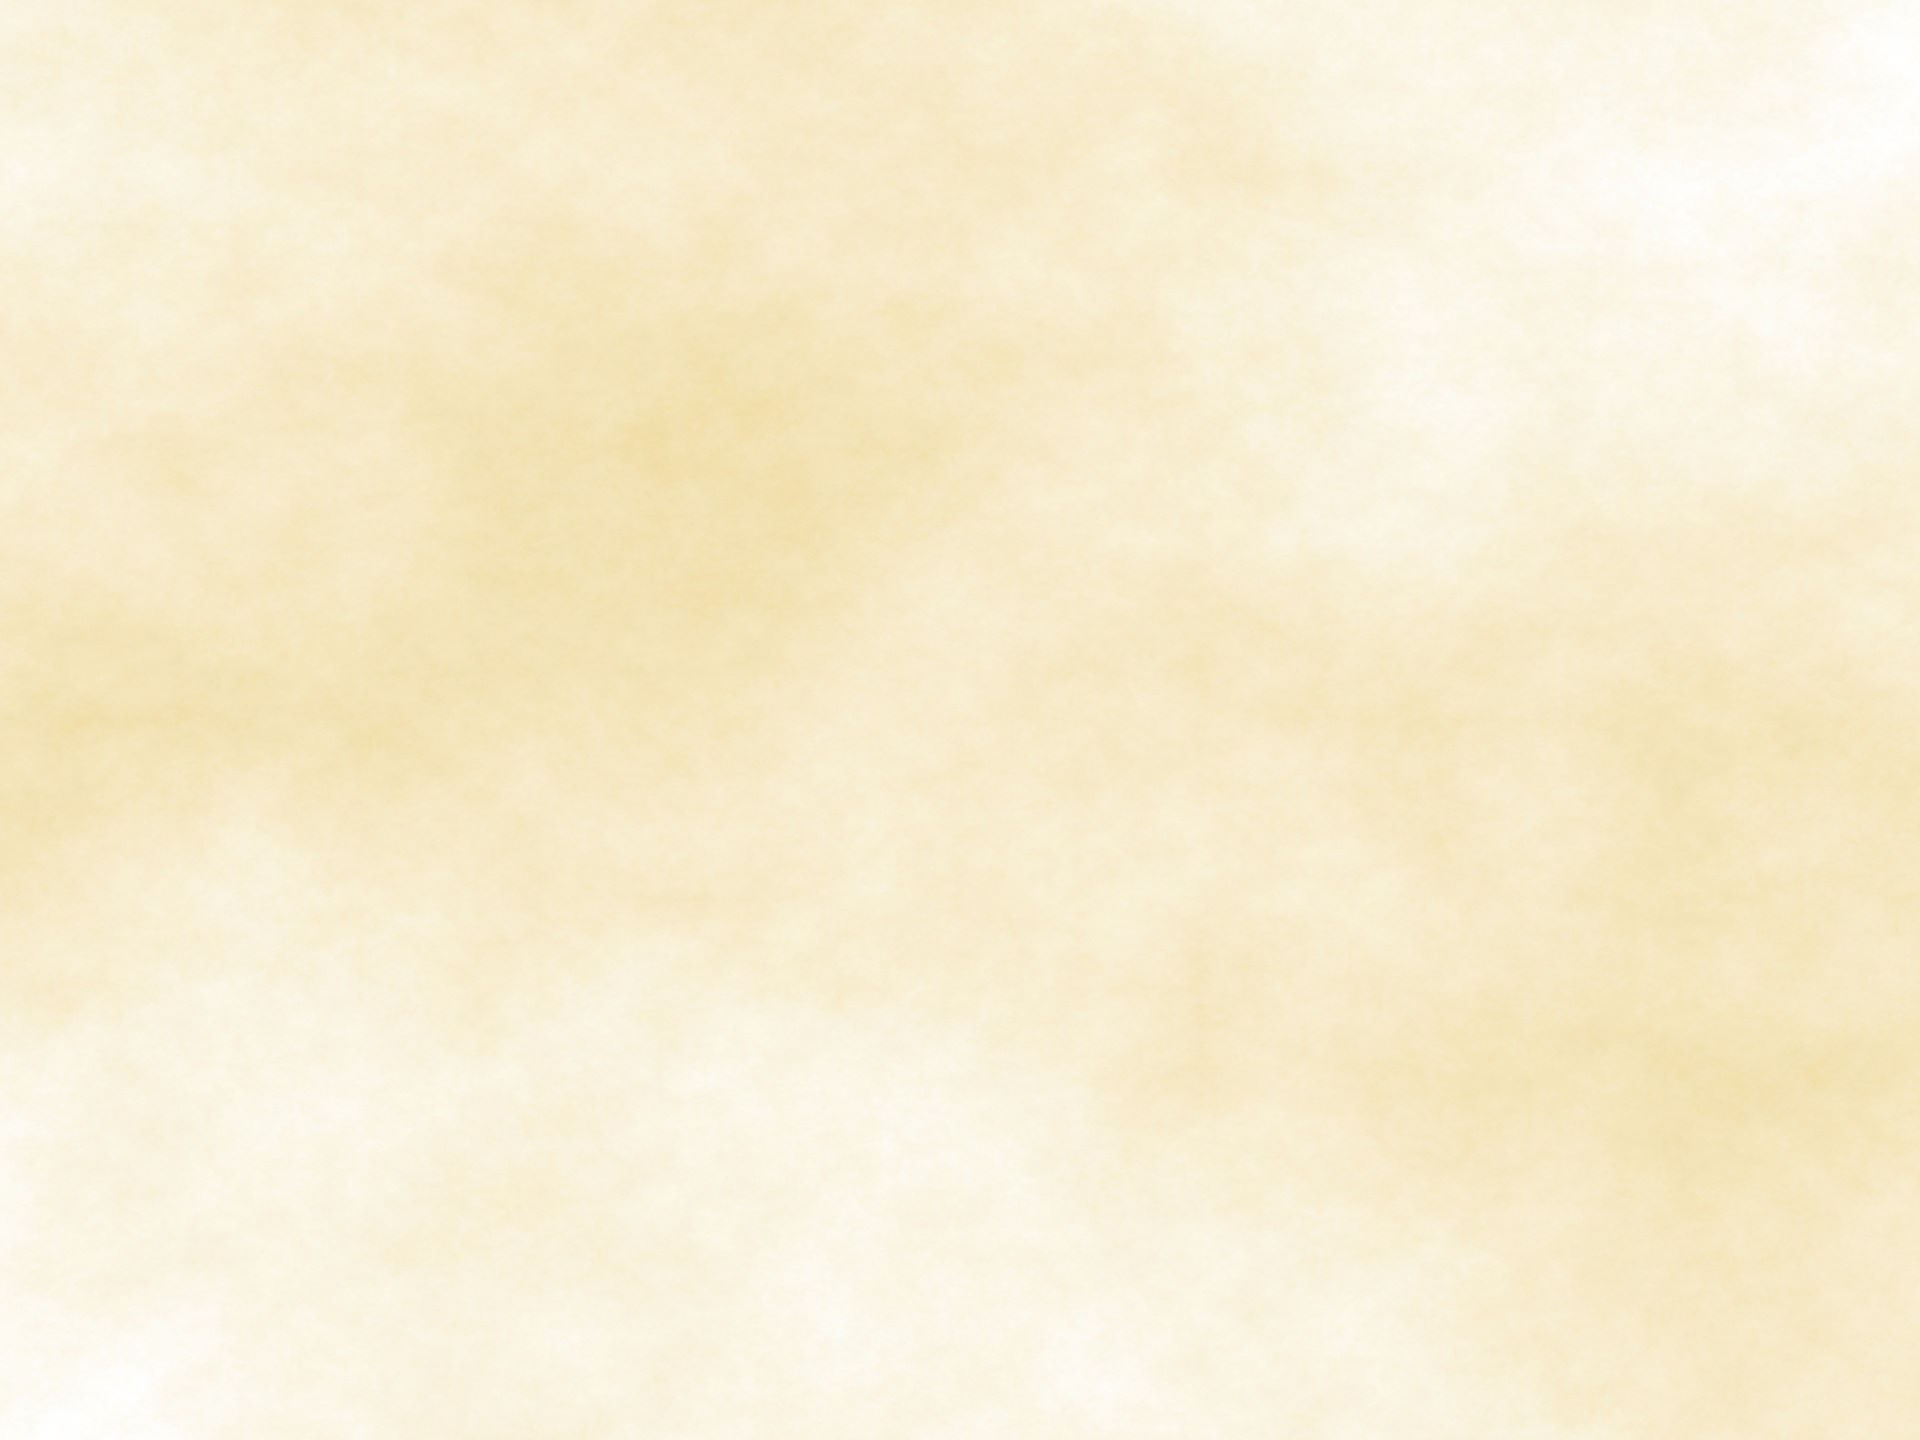
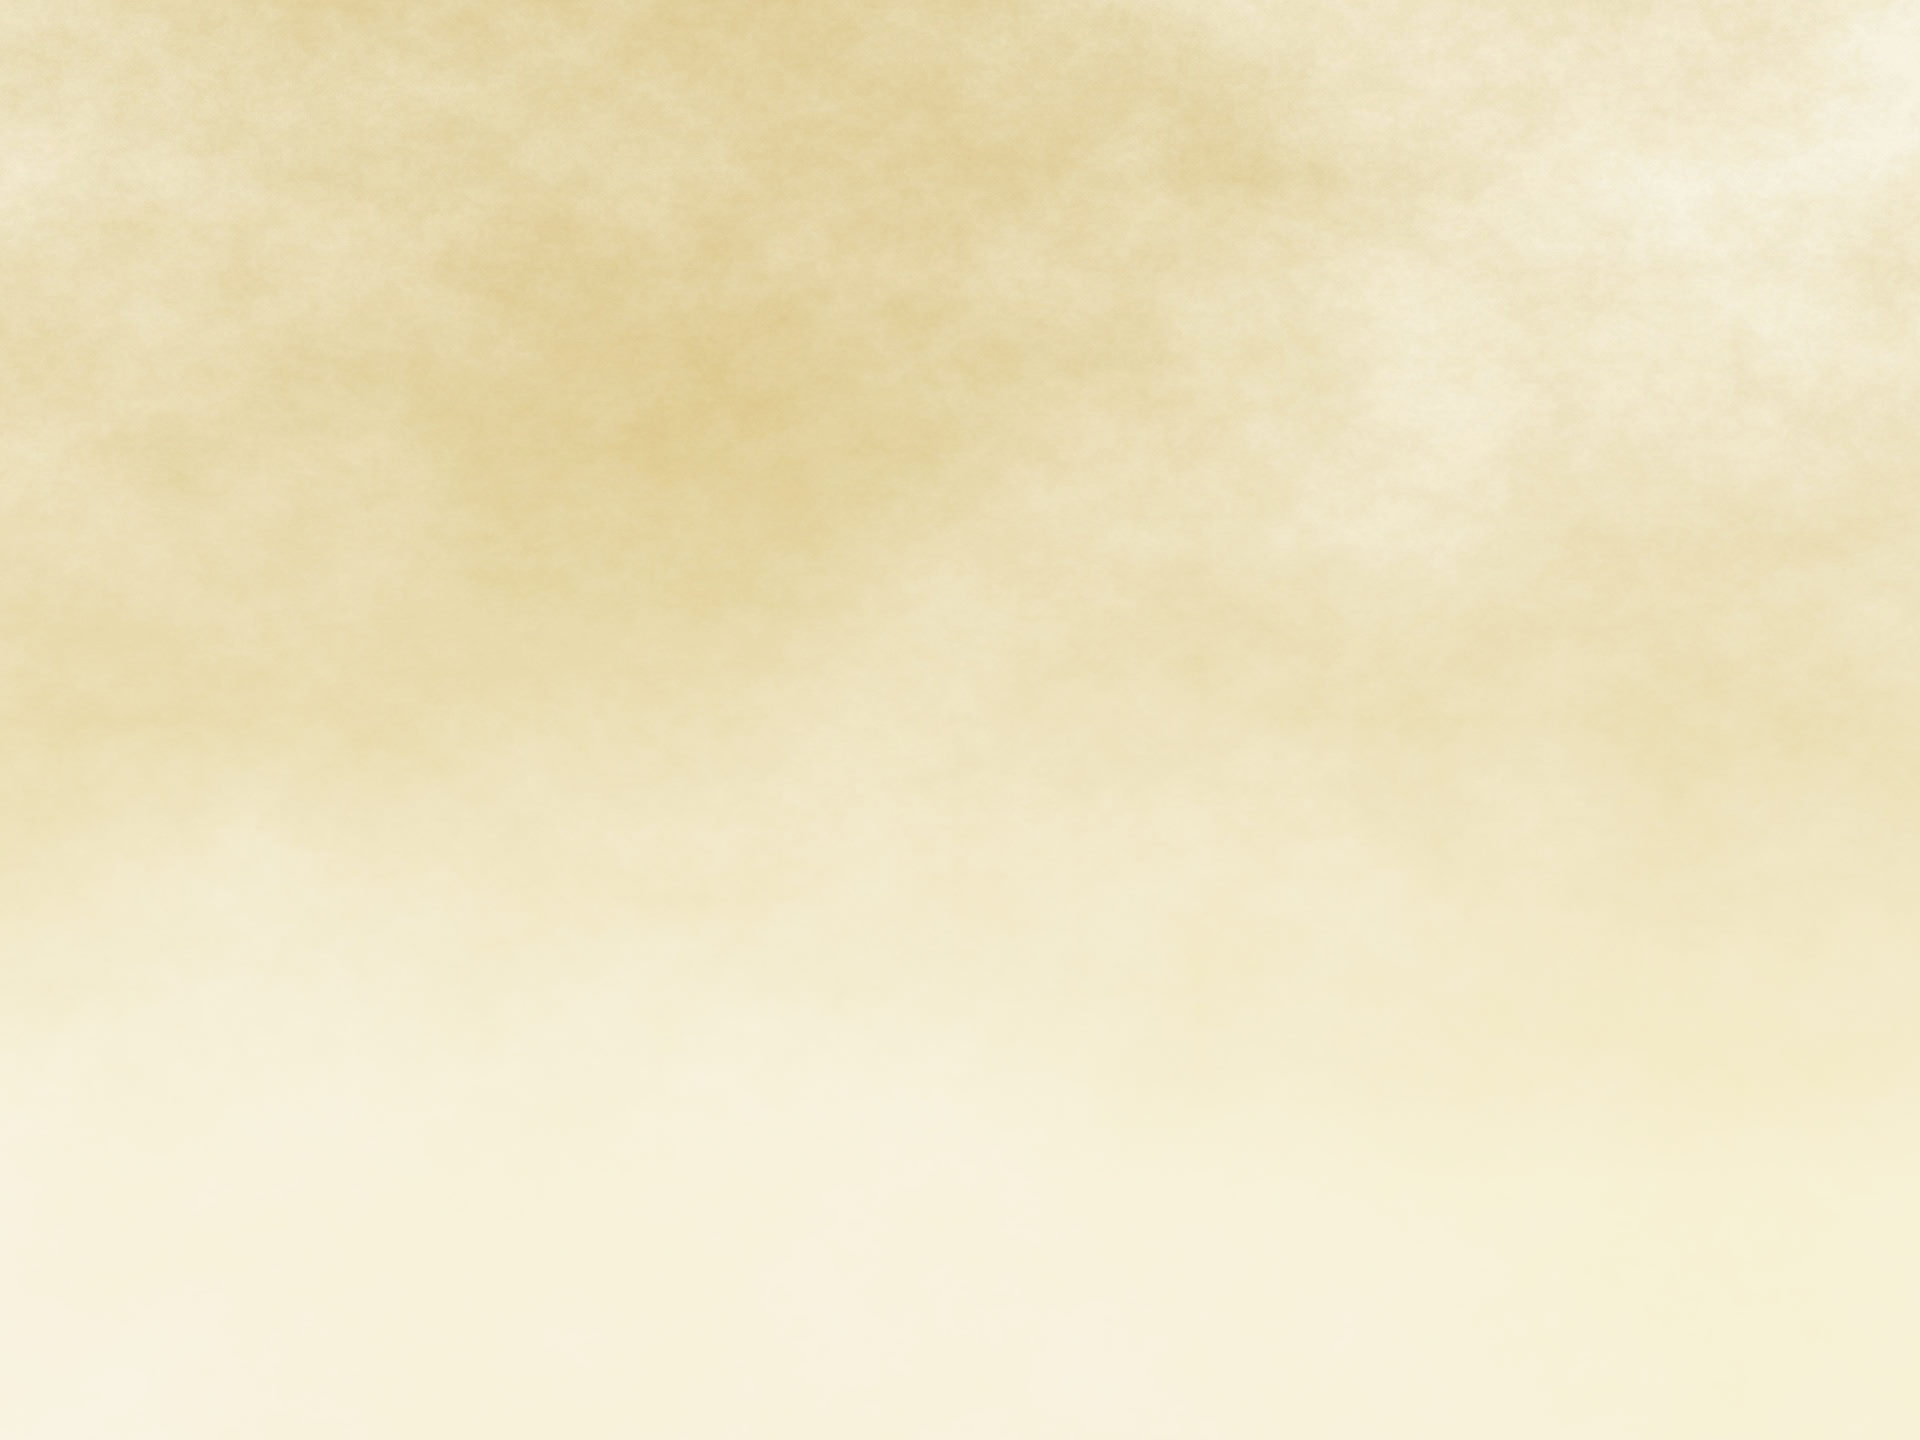
tweaked theme backgrounds

diff --git a/sandman/annotations.css b/sandman/annotations.css
@@ -151,6 +151,7 @@ h3 {
 }
 
 .book.color-theme-1 .book-body {
+  background: #f8f2dc;
   background-image: url("images/bg_sepia.jpg");
   background-repeat: no-repeat;
   background-position: center;
@@ -172,6 +173,7 @@ h3 {
 }
 
 .book.color-theme-2 .book-body {
+  background: #1c1f2b;
   background-image: url("images/bg_night.jpg");
   background-repeat: no-repeat;
   background-position: center;
